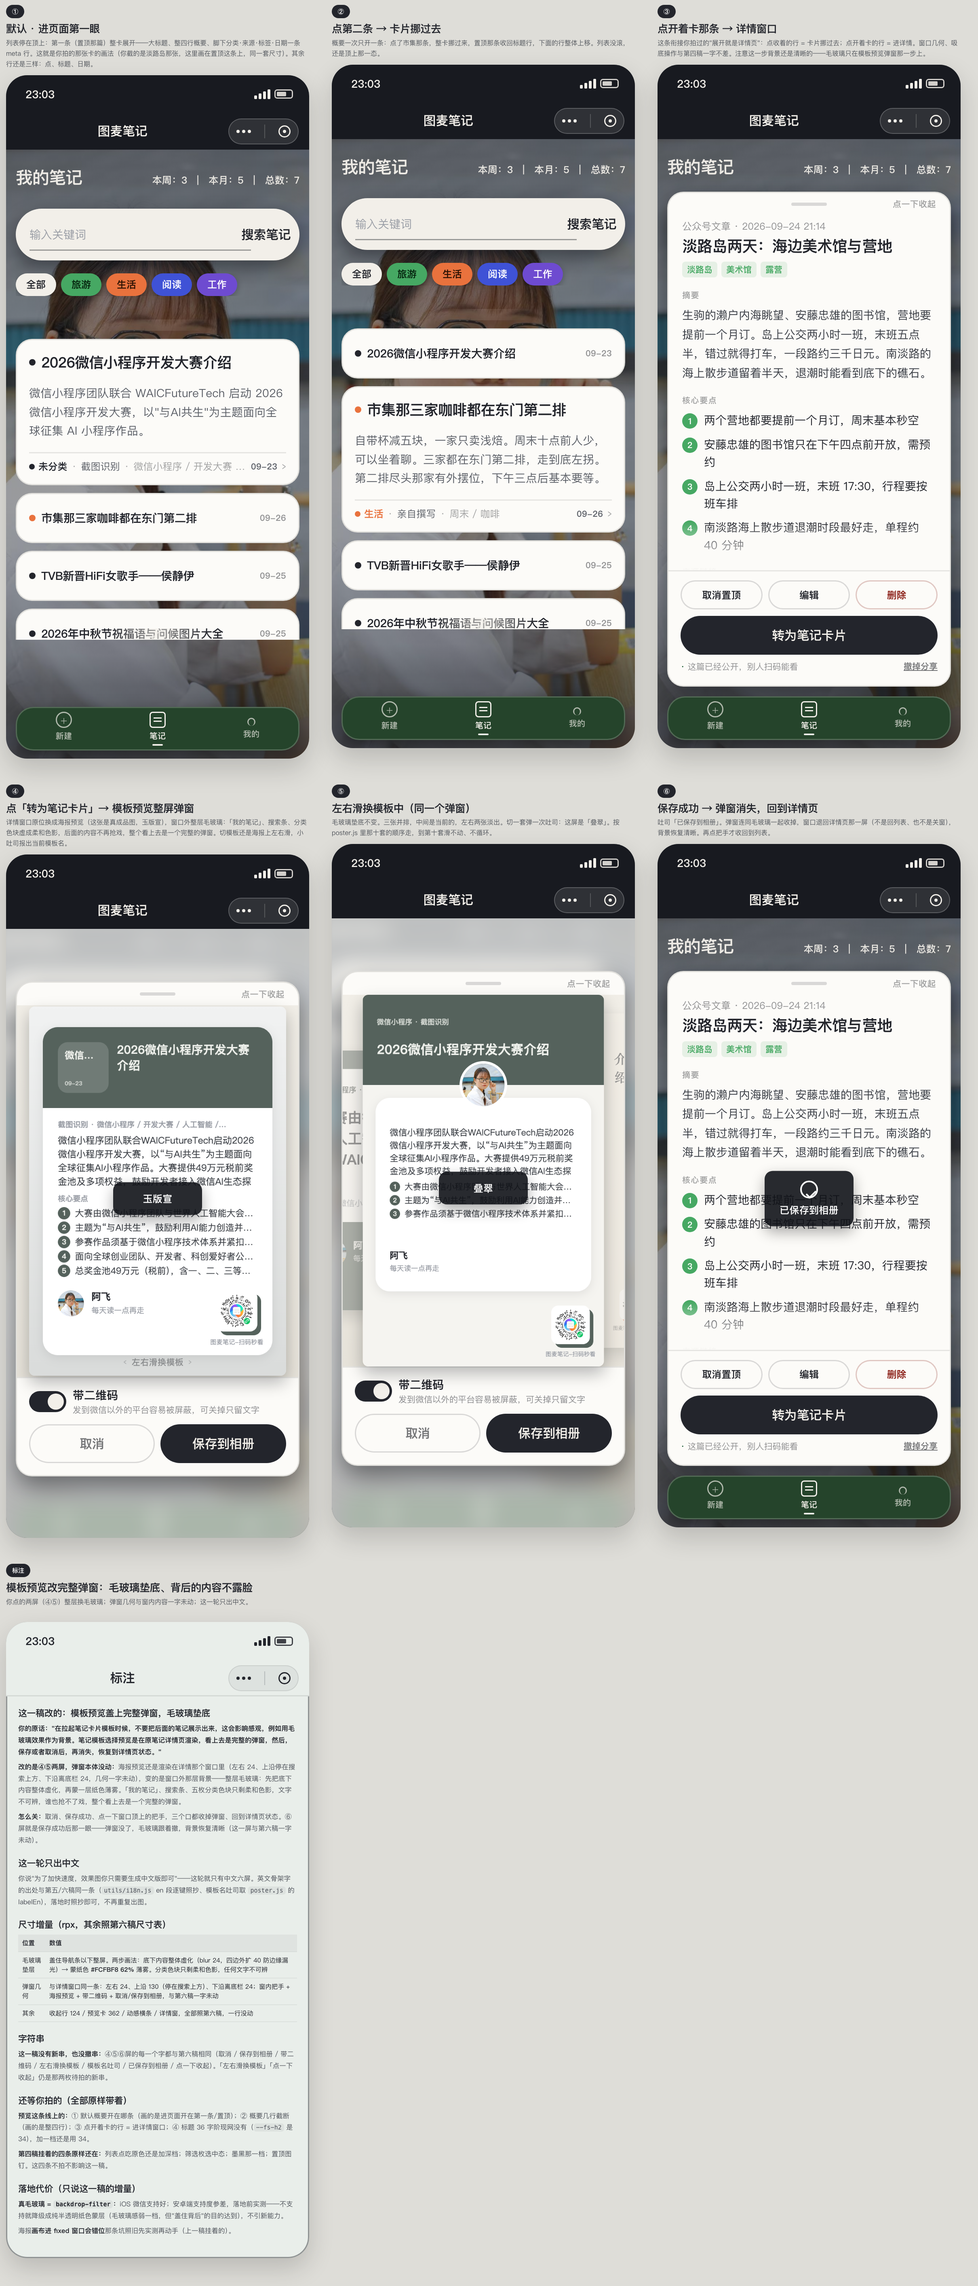
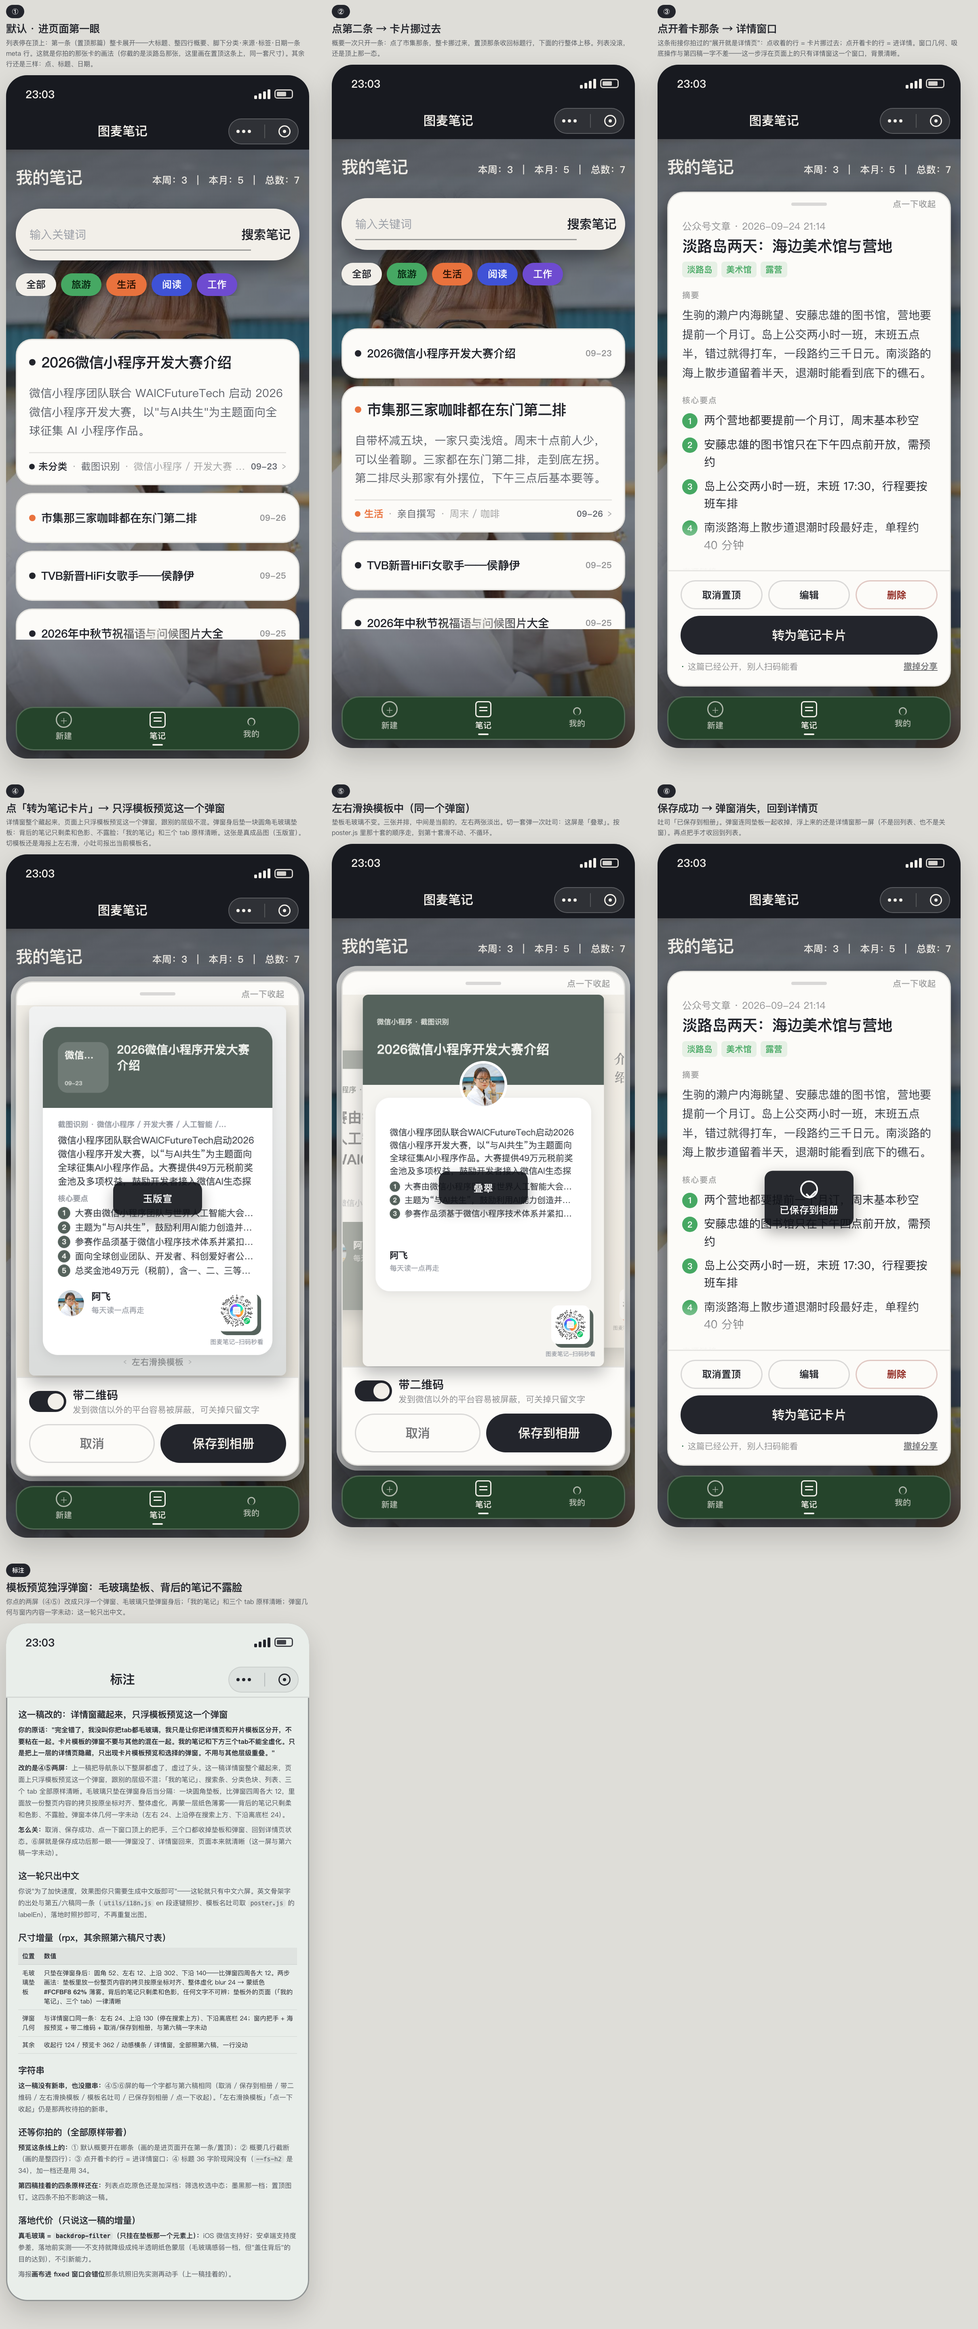
v7纠正稿：拉模板时详情窗整个藏起，只浮模板预览一个弹窗
按站长打回意见重画④⑤：不再整屏虚化，毛玻璃只垫在弹窗身后当垫板（比弹窗四周各大12、blur24+纸色62%），「我的笔记」与三个tab保持清晰；弹窗几何与⑥回详情屏与第六稿一字未动。PRD §8.64 同步重写。

diff --git a/docs/design/笔记列表-堆叠卡/笔记列表v7-模板预览完整弹窗-中文.html b/docs/design/笔记列表-堆叠卡/笔记列表v7-模板预览完整弹窗-中文.html
@@ -2,23 +2,23 @@
 <html lang="zh">
 <head>
 <meta charset="utf-8">
-<title>图麦笔记 · 笔记列表 v7（模板预览改完整弹窗+毛玻璃 · 中文 · 2026-09-29）</title>
+<title>图麦笔记 · 笔记列表 v7（模板预览独浮弹窗+垫板毛玻璃 · 中文 · 2026-09-29）</title>
 <style>
 /* ==================================================================
-   站长 09-29 第五轮拍板（这一稿改的）：
-   "在拉起笔记卡片模板时候，不要把后面的笔记展示出来，这会影响感观，例如用毛玻璃效果作为背景。
-    笔记模板选择预览是在原笔记详情页渲染，看上去是完整的弹窗，然后，保存或者取消后，再消失，
-    恢复到详情页状态。为了加快速度，效果图你只需要生成中文版即可。"
-   → 改④⑤两屏：海报预览还是详情那个窗口原位换内容（几何一字未动），变的是窗口外的背景——
-     整层毛玻璃：底下内容整体虚化 blur 24 + 纸色薄雾 62%。「我的笔记」/搜索条/五枚分类色块
-     只剩柔和色影，文字不可辨，整个看上去是一个完整的弹窗。
-     怎么关：取消 / 保存成功 / 点一下把手，三个口都收掉弹窗回详情（⑥），毛玻璃跟着撤、
-     背景恢复清晰。
+   站长 09-29 第六轮纠正（这一稿改的）：
+   "完全错了，我没叫你把tab都毛玻璃，我只是让你把详情页和开片模板区分开，不要粘在一起。
+    卡片模板的弹窗不要与其他的混在一起。我的笔记和下方三个tab不能全虚化。
+    只是把上一层的详情页隐藏，只出现卡片模板预览和选择的弹窗。不用与其他层级重叠。"
+   → 改④⑤两屏：详情窗整个藏起来，页面上只浮模板预览这一个弹窗，跟别的层级不混——
+     「我的笔记」、搜索条、分类色块、列表、三个 tab 全部原样清晰。
+     毛玻璃只垫在弹窗身后当分隔：一块圆角垫板（比弹窗四周各大 12），里面放一份整页内容的
+     拷贝按原坐标对齐、整体虚化 blur 24，再蒙纸色薄雾 62%——背后的笔记只剩柔和色影、不露脸。
+     怎么关：取消 / 保存成功 / 点一下把手，三个口都收掉垫板与弹窗回详情（⑥）。
    这一轮只出中文六屏（站长原话"只生成中文版"）；英文字串出处与第五/六稿同一条，落地照抄。
    其余一字未动：预览整卡（第六稿）、收起行 124、动感横条、详情窗、海报内容、字符串零新串。
 
    六屏：① 默认（列表顶，第一条整卡展开） ② 点第二条 → 卡片挪过去
-         ③ 点开着的卡 → 详情窗口  ④ 转为笔记卡片 → 完整弹窗出海报（毛玻璃垫底）
+         ③ 点开着的卡 → 详情窗口  ④ 转为笔记卡片 → 只浮模板预览弹窗（垫板毛玻璃）
          ⑤ 左右滑换模板（同一弹窗）  ⑥ 保存成功 → 弹窗消失回详情
 
    口径与代码同一把尺子：px 当 rpx 用，设计宽 750；一屏 = 外框 184（状态栏 94 + 导航条 90）+ 视口 1506 = 1690。
@@ -60,15 +60,17 @@
       rgba(18,20,26,.52) 83%,rgba(18,20,26,.62) 88%,rgba(18,20,26,.72) 100%)}
   .lay{position:absolute;left:0;top:184px;width:750px;height:1506px;z-index:2}
 
-  /* ---------- 第七稿：模板预览 = 完整弹窗 ----------
-     毛玻璃两步：.under 把导航条以下的全部内容整体虚化（blur 24；四边外扩 40 防边缘漏光），
-     .frost 蒙一层纸色薄雾。后面的内容只剩柔和色影，任何文字不可辨。
-     弹窗本体还是详情那个窗口（几何一字未动），z 压在毛玻璃上。 */
-  .under{position:absolute;left:0;right:0;top:184px;bottom:0;z-index:2;filter:blur(24px)}
-  .under .bg,.under .scrim{top:-40px;height:1586px;left:-40px;width:830px}
-  .under .lay{top:-40px;height:1586px;left:-40px;right:-40px}
-  .under .tabbar{bottom:-20px}
-  .frost{position:absolute;left:0;right:0;top:184px;bottom:0;z-index:3;background:rgba(252,251,248,.62)}
+  /* ---------- 第七稿：模板预览 = 独浮弹窗 + 垫板毛玻璃 ----------
+     页面原样清晰（head/rows/tabbar 照 ③ 的那一态，只少详情窗）；
+     毛玻璃只垫在弹窗身后：.stage 一块圆角垫板（比弹窗四周各大 12），overflow 裁圆角；
+     .stageIn 是整页内容的拷贝，按原坐标对齐（垫板在 (12,302)，拷贝反向位移 (-12,-302)，
+     两者原点重合在手机 (0,0)），整体虚化 blur 24；.tint 蒙纸色薄雾。
+     背后的笔记只剩柔和色影，任何文字不可辨；垫板外的页面一律清晰。
+     弹窗本体 z:9 压在垫板上，几何与详情窗同一条、一字未动。 */
+  .stage{position:absolute;left:12px;right:12px;top:302px;bottom:140px;z-index:8;border-radius:52px;
+    overflow:hidden;background:#E7E4DC;box-shadow:0 30px 80px rgba(8,10,14,.38)}
+  .stage .stageIn{position:absolute;left:-12px;top:-302px;width:750px;height:1690px;filter:blur(24px)}
+  .stage .tint{position:absolute;inset:0;background:rgba(252,251,248,.62)}
 
   .sb{height:94px;display:flex;align-items:center;justify-content:space-between;padding:0 40px 0 48px;
     font-size:27px;font-weight:700;color:#F2EFE9;background:#181A20;position:relative;z-index:12}
@@ -332,21 +334,23 @@ const mk = (T) => {
     ${inner}
     ${tabbar}`
 
-  /* ④/⑤ 专用：导航条以下整层进 .under 整体虚化，再蒙 .frost 纸色薄雾；
-     弹窗本体（.sheet）在毛玻璃之上，z:9。状态栏与导航条保持清晰。 */
+  /* ④/⑤ 专用：详情窗整个藏起来，页面照 ③ 的那一态原样清晰（tab 原样）；
+     .stage 垫板里放整页拷贝虚化 + 纸色薄雾，垫在弹窗（.sheet，z:9）身后。 */
   const modalShell = (sheetInner) => `
     <div class="sb"><span>23:03</span><span class="right"><span class="sig"><i></i><i></i><i></i><i></i></span><span class="bat"></span></span></div>
     <div class="nb"><span class="t">${T.nav}</span><span class="capsule"><span class="dots"><i></i><i></i><i></i></span><span class="dv"></span><span class="cls"></span></span></div>
-    <div class="under">
-      <div class="bg" style="background-image:url('${IMG}')"></div><div class="scrim"></div>
-      <div class="lay">
-        <div class="hero"><div class="h1">${T.head}</div><div class="stats">${T.stats}</div></div>
-        <div class="spill"><div class="q">${T.ph}</div><div class="go">${T.go}</div><div class="rule"></div></div>
-        <div class="chips"><div class="chip all">${T.all}</div>${chip('green')}${chip('orange')}${chip('blue')}${chip('purple')}</div>
+    <div class="bg" style="background-image:url('${IMG}')"></div><div class="scrim"></div>
+    ${head()}
+    <div class="lay"><div class="rows">${listRows(1)}</div></div>
+    ${tabbar}
+    <div class="stage">
+      <div class="stageIn">
+        <div class="bg" style="background-image:url('${IMG}')"></div><div class="scrim"></div>
+        ${head()}
+        <div class="lay"><div class="rows">${listRows(1)}</div></div>
       </div>
-      ${tabbar}
+      <div class="tint"></div>
     </div>
-    <div class="frost"></div>
     <div class="lay" style="z-index:9"><div class="sheet">${sheetInner}</div></div>`
 
   const chip = (k) => `<div class="chip" style="background:${CAT[k].bg};color:${CAT[k].ink}">${CAT[k].name}</div>`
@@ -445,8 +449,8 @@ const mk = (T) => {
       </div>
     </div>`
 
-  /* ④ 点「转为笔记卡片」：详情窗口原位换成海报预览，窗口外整层毛玻璃——
-     后面的列表头、搜索、分类色块虚成柔和色影，整个是一个完整弹窗。
+  /* ④ 点「转为笔记卡片」：详情窗整个藏起来，页面上只浮模板预览这一个弹窗；
+     弹窗身后垫 .stage 毛玻璃垫板，背后的笔记只剩柔和色影、不露脸。
      关掉弹窗的口：取消、保存成功、点一下把手，都回详情页。 */
   const S4 = modalShell(`
       <div class="grip"><i></i><em>${T.grip}</em></div>
@@ -456,7 +460,7 @@ const mk = (T) => {
       </div>
       ${dockPoster}`)
 
-  /* ⑤ 左右滑换模板中：三张并排，中间是当前的；吐司报出刚切到的名字。毛玻璃垫底不变 */
+  /* ⑤ 左右滑换模板中：三张并排，中间是当前的；吐司报出刚切到的名字。垫板毛玻璃不变 */
   const S5 = modalShell(`
       <div class="grip"><i></i><em>${T.grip}</em></div>
       <div class="pbox"><div class="pair">
@@ -469,7 +473,7 @@ const mk = (T) => {
       </div>
       ${dockPoster}`)
 
-  /* ⑥ 保存成功：弹窗连同毛玻璃一起收掉，窗口回到详情页（不是回列表），背景恢复清晰 */
+  /* ⑥ 保存成功：弹窗连同垫板一起收掉，浮上来的还是详情窗（不是回列表），页面本来就清晰 */
   const S6 = shell(head() + `
     <div class="lay"><div class="rows">${listRows(1)}</div></div>
     <div class="lay" style="z-index:9"><div class="sheet">
@@ -493,16 +497,16 @@ const DOC = `
   <div class="nb" style="background:#E9EEEA;border-bottom:3px solid rgba(35,37,44,.10)"><span class="t" style="color:#23252C">标注</span>
     <span class="capsule" style="background:rgba(35,37,44,.06);box-shadow:inset 0 0 0 2px rgba(35,37,44,.10);color:#23252C"><span class="dots"><i></i><i></i><i></i></span><span class="dv"></span><span class="cls"></span></span></div>
   <div class="docbody">
-    <div class="blk2"><h4>这一稿改的：模板预览盖上完整弹窗，毛玻璃垫底</h4>
-      <p><b>你的原话："在拉起笔记卡片模板时候，不要把后面的笔记展示出来，这会影响感观，例如用毛玻璃效果作为背景。笔记模板选择预览是在原笔记详情页渲染，看上去是完整的弹窗，然后，保存或者取消后，再消失，恢复到详情页状态。"</b></p>
-      <p><b>改的是④⑤两屏，弹窗本体没动：</b>海报预览还是渲染在详情那个窗口里（左右 24、上沿停在搜索上方、下沿离底栏 24，几何一字未动），变的是窗口外那层背景——整层毛玻璃：先把底下内容整体虚化，再蒙一层纸色薄雾。「我的笔记」、搜索条、五枚分类色块只剩柔和色影，文字不可辨，谁也抢不了戏，整个看上去是一个完整的弹窗。</p>
-      <p><b>怎么关：</b>取消、保存成功、点一下窗口顶上的把手，三个口都收掉弹窗、回到详情页状态。⑥屏就是保存成功后那一眼——弹窗没了，毛玻璃跟着撤，背景恢复清晰（这一屏与第六稿一字未动）。</p></div>
+    <div class="blk2"><h4>这一稿改的：详情窗藏起来，只浮模板预览这一个弹窗</h4>
+      <p><b>你的原话："完全错了，我没叫你把tab都毛玻璃，我只是让你把详情页和开片模板区分开，不要粘在一起。卡片模板的弹窗不要与其他的混在一起。我的笔记和下方三个tab不能全虚化。只是把上一层的详情页隐藏，只出现卡片模板预览和选择的弹窗。不用与其他层级重叠。"</b></p>
+      <p><b>改的是④⑤两屏：</b>上一稿把导航条以下整屏都虚了，虚过了头。这一稿详情窗整个藏起来，页面上只浮模板预览这一个弹窗，跟别的层级不混；「我的笔记」、搜索条、分类色块、列表、三个 tab 全部原样清晰。毛玻璃只垫在弹窗身后当分隔：一块圆角垫板，比弹窗四周各大 12，里面放一份整页内容的拷贝按原坐标对齐、整体虚化，再蒙一层纸色薄雾——背后的笔记只剩柔和色影、不露脸。弹窗本体几何一字未动（左右 24、上沿停在搜索上方、下沿离底栏 24）。</p>
+      <p><b>怎么关：</b>取消、保存成功、点一下窗口顶上的把手，三个口都收掉垫板和弹窗、回到详情页状态。⑥屏就是保存成功后那一眼——弹窗没了、详情窗回来，页面本来就清晰（这一屏与第六稿一字未动）。</p></div>
     <div class="blk2"><h4>这一轮只出中文</h4>
       <p>你说"为了加快速度，效果图你只需要生成中文版即可"——这轮就只有中文六屏。英文骨架字的出处与第五/六稿同一条（<code>utils/i18n.js</code> en 段逐键照抄、模板名吐司取 <code>poster.js</code> 的 labelEn），落地时照抄即可，不再重复出图。</p></div>
     <div class="blk2"><h4>尺寸增量（rpx，其余照第六稿尺寸表）</h4>
       <table>
         <tr><th>位置</th><th>数值</th></tr>
-        <tr><td>毛玻璃垫层</td><td>盖住导航条以下整屏。两步画法：底下内容整体虚化（blur 24，四边外扩 40 防边缘漏光）→ 蒙纸色 <b>#FCFBF8 62%</b> 薄雾。分类色块只剩柔和色影，任何文字不可辨</td></tr>
+        <tr><td>毛玻璃垫板</td><td>只垫在弹窗身后：圆角 52、左右 12、上沿 302、下沿 140——比弹窗四周各大 12。两步画法：垫板里放一份整页内容的拷贝按原坐标对齐、整体虚化 blur 24 → 蒙纸色 <b>#FCFBF8 62%</b> 薄雾。背后的笔记只剩柔和色影，任何文字不可辨；垫板外的页面（「我的笔记」、三个 tab）一律清晰</td></tr>
         <tr><td>弹窗几何</td><td>与详情窗口同一条：左右 24、上沿 130（停在搜索上方）、下沿离底栏 24；窗内把手 + 海报预览 + 带二维码 + 取消/保存到相册，与第六稿一字未动</td></tr>
         <tr><td>其余</td><td>收起行 124 / 预览卡 362 / 动感横条 / 详情窗，全部照第六稿，一行没动</td></tr>
       </table></div>
@@ -512,7 +516,7 @@ const DOC = `
       <p><b>预览这条线上的：</b>① 默认概要开在哪条（画的是进页面开在第一条/置顶）；② 概要几行截断（画的是整四行）；③ 点开着卡的行 = 进详情窗口；④ 标题 36 字阶现网没有（<code>--fs-h2</code> 是 34），加一档还是用 34。</p>
       <p><b>第四稿挂着的四条原样还在：</b>列表点吃原色还是加深档；筛选枚选中态；墨黑那一档；置顶图钉。这四条不拍不影响这一稿。</p></div>
     <div class="blk2"><h4>落地代价（只说这一稿的增量）</h4>
-      <p><b>真毛玻璃 = <code>backdrop-filter</code>：</b>iOS 微信支持好；安卓端支持度参差，落地前实测——不支持就降级成纯半透明纸色蒙层（毛玻璃感弱一档，但"盖住背后"的目的达到），不引新能力。</p>
+      <p><b>真毛玻璃 = <code>backdrop-filter</code>（只挂在垫板那一个元素上）：</b>iOS 微信支持好；安卓端支持度参差，落地前实测——不支持就降级成纯半透明纸色蒙层（毛玻璃感弱一档，但"盖住背后"的目的达到），不引新能力。</p>
       <p>海报<b>画布进 fixed 窗口会错位</b>那条坑照旧先实测再动手（上一稿挂着的）。</p></div>
   </div>`
 
@@ -520,11 +524,11 @@ const flow = document.getElementById('flow')
 flow.innerHTML =
   UNIT('①', '默认 · 进页面第一眼', '列表停在顶上：第一条（置顶那篇）整卡展开——大标题、整四行概要、脚下分类·来源·标签·日期一条 meta 行。这就是你拍的那张卡的画法（你截的是淡路岛那张，这里画在置顶这条上，同一套尺寸）。其余行还是三样：点、标题、日期。', C1)
   + UNIT('②', '点第二条 → 卡片挪过去', '概要一次只开一条：点了市集那条，整卡挪过来，置顶那条收回标题行，下面的行整体上移。列表没滚，还是顶上那一态。', C2)
-  + UNIT('③', '点开着卡那条 → 详情窗口', '这条衔接你拍过的"展开就是详情页"：点收着的行 = 卡片挪过去；点开着卡的行 = 进详情。窗口几何、吸底操作与第四稿一字不差。注意这一步背景还是清晰的——毛玻璃只在模板预览弹窗那一步上。', C3)
-  + UNIT('④', '点「转为笔记卡片」→ 模板预览整屏弹窗', '详情窗口原位换成海报预览（这张是真成品图，玉版宣），窗口外整层毛玻璃：「我的笔记」、搜索条、分类色块虚成柔和色影，后面的内容不再抢戏，整个看上去是一个完整的弹窗。切模板还是海报上左右滑，小吐司报出当前模板名。', C4)
-  + UNIT('⑤', '左右滑换模板中（同一个弹窗）', '毛玻璃垫底不变。三张并排，中间是当前的，左右两张淡出。切一套弹一次吐司：这屏是「叠翠」。按 poster.js 里那十套的顺序走，到第十套滑不动、不循环。', C5)
-  + UNIT('⑥', '保存成功 → 弹窗消失，回到详情页', '吐司「已保存到相册」。弹窗连同毛玻璃一起收掉，窗口退回详情页那一屏（不是回列表、也不是关窗），背景恢复清晰。再点把手才收回到列表。', C6)
-  + `<div class="unit"><div class="cap"><span class="step">标注</span><h3>模板预览改完整弹窗：毛玻璃垫底、背后的内容不露脸</h3><p>你点的两屏（④⑤）整层换毛玻璃；弹窗几何与窗内内容一字未动；这一轮只出中文。</p></div>
+  + UNIT('③', '点开着卡那条 → 详情窗口', '这条衔接你拍过的"展开就是详情页"：点收着的行 = 卡片挪过去；点开着卡的行 = 进详情。窗口几何、吸底操作与第四稿一字不差——这一步浮在页面上的只有详情窗这一个窗口，背景清晰。', C3)
+  + UNIT('④', '点「转为笔记卡片」→ 只浮模板预览这一个弹窗', '详情窗整个藏起来，页面上只浮模板预览这一个弹窗，跟别的层级不混。弹窗身后垫一块圆角毛玻璃垫板：背后的笔记只剩柔和色影、不露脸；「我的笔记」和三个 tab 原样清晰。这张是真成品图（玉版宣）。切模板还是海报上左右滑，小吐司报出当前模板名。', C4)
+  + UNIT('⑤', '左右滑换模板中（同一个弹窗）', '垫板毛玻璃不变。三张并排，中间是当前的，左右两张淡出。切一套弹一次吐司：这屏是「叠翠」。按 poster.js 里那十套的顺序走，到第十套滑不动、不循环。', C5)
+  + UNIT('⑥', '保存成功 → 弹窗消失，回到详情页', '吐司「已保存到相册」。弹窗连同垫板一起收掉，浮上来的还是详情窗那一屏（不是回列表、也不是关窗）。再点把手才收回到列表。', C6)
+  + `<div class="unit"><div class="cap"><span class="step">标注</span><h3>模板预览独浮弹窗：毛玻璃垫板、背后的笔记不露脸</h3><p>你点的两屏（④⑤）改成只浮一个弹窗、毛玻璃只垫弹窗身后；「我的笔记」和三个 tab 原样清晰；弹窗几何与窗内内容一字未动；这一轮只出中文。</p></div>
      <div class="ph doc">${DOC}</div></div>`
 </script>
 </body>
